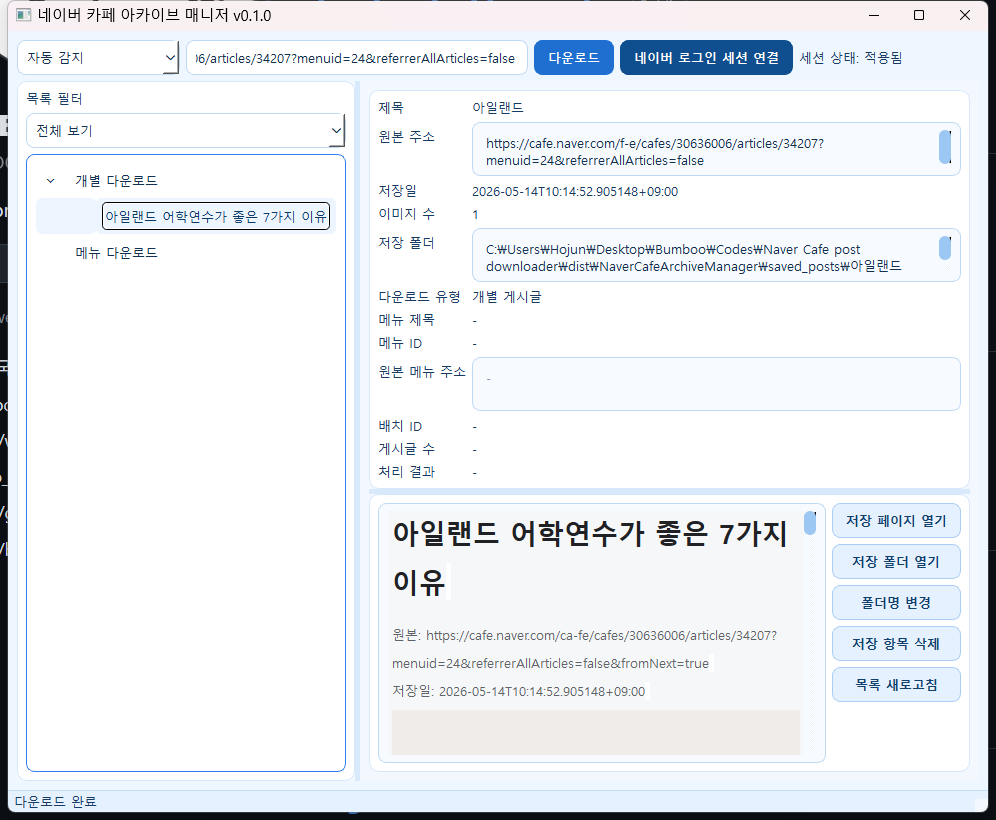
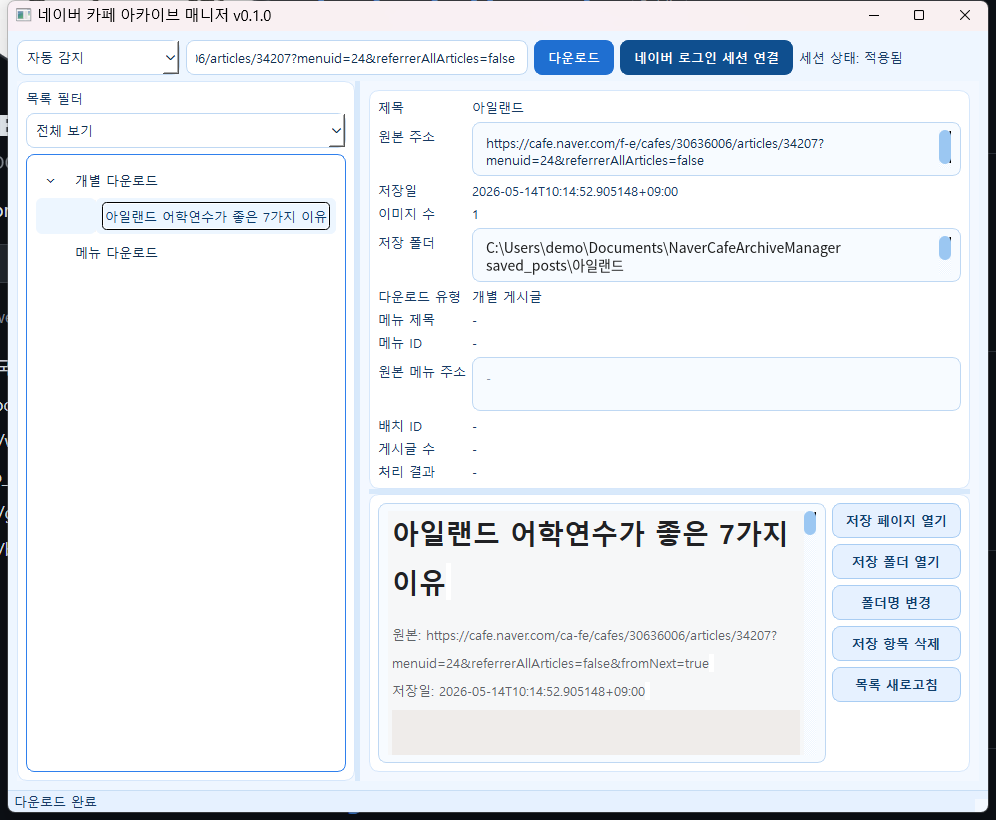
Show the app at the top of the README and use a demo path in the screenshot

Changed region(s): [[0.4669, 0.2744, 0.9026, 0.3354]]

diff --git a/README.md b/README.md
@@ -4,6 +4,8 @@
 
 네이버 카페에서 **본인이 열람할 권한이 있는 게시글**을 Windows PC에 개인용으로 보관하고, 로컬 HTML로 다시 볼 수 있게 해 주는 데스크톱 도구입니다. 앱에는 **Naver Cafe Archive Manager**라는 이름으로 표시됩니다.
 
+![저장한 글을 고르면 원본 주소, 저장 폴더, 미리보기가 함께 보이는 화면](docs/demo-screenshots/naver-live-05-saved-item-selected.png)
+
 > [!IMPORTANT]
 > 이 프로젝트는 네이버 또는 네이버 카페의 공식 제품이 아닙니다. 네이버 이용약관, 카페 운영정책, 저작권 및 개인정보 관련 법규를 확인하고 준수해 주세요.
 

diff --git a/docs/README.en.md b/docs/README.en.md
@@ -4,6 +4,8 @@
 
 A Windows desktop tool that saves **Naver Cafe posts you are authorized to view** for personal, local use and generates local HTML pages for later reading. The app is displayed as **Naver Cafe Archive Manager**.
 
+![A saved post selected, with its source URL, save folder and a preview of the local page](demo-screenshots/naver-live-05-saved-item-selected.png)
+
 > [!IMPORTANT]
 > This is not an official Naver or Naver Cafe product. You are responsible for following Naver's terms, Cafe policies, copyright rules, and privacy laws.
 
